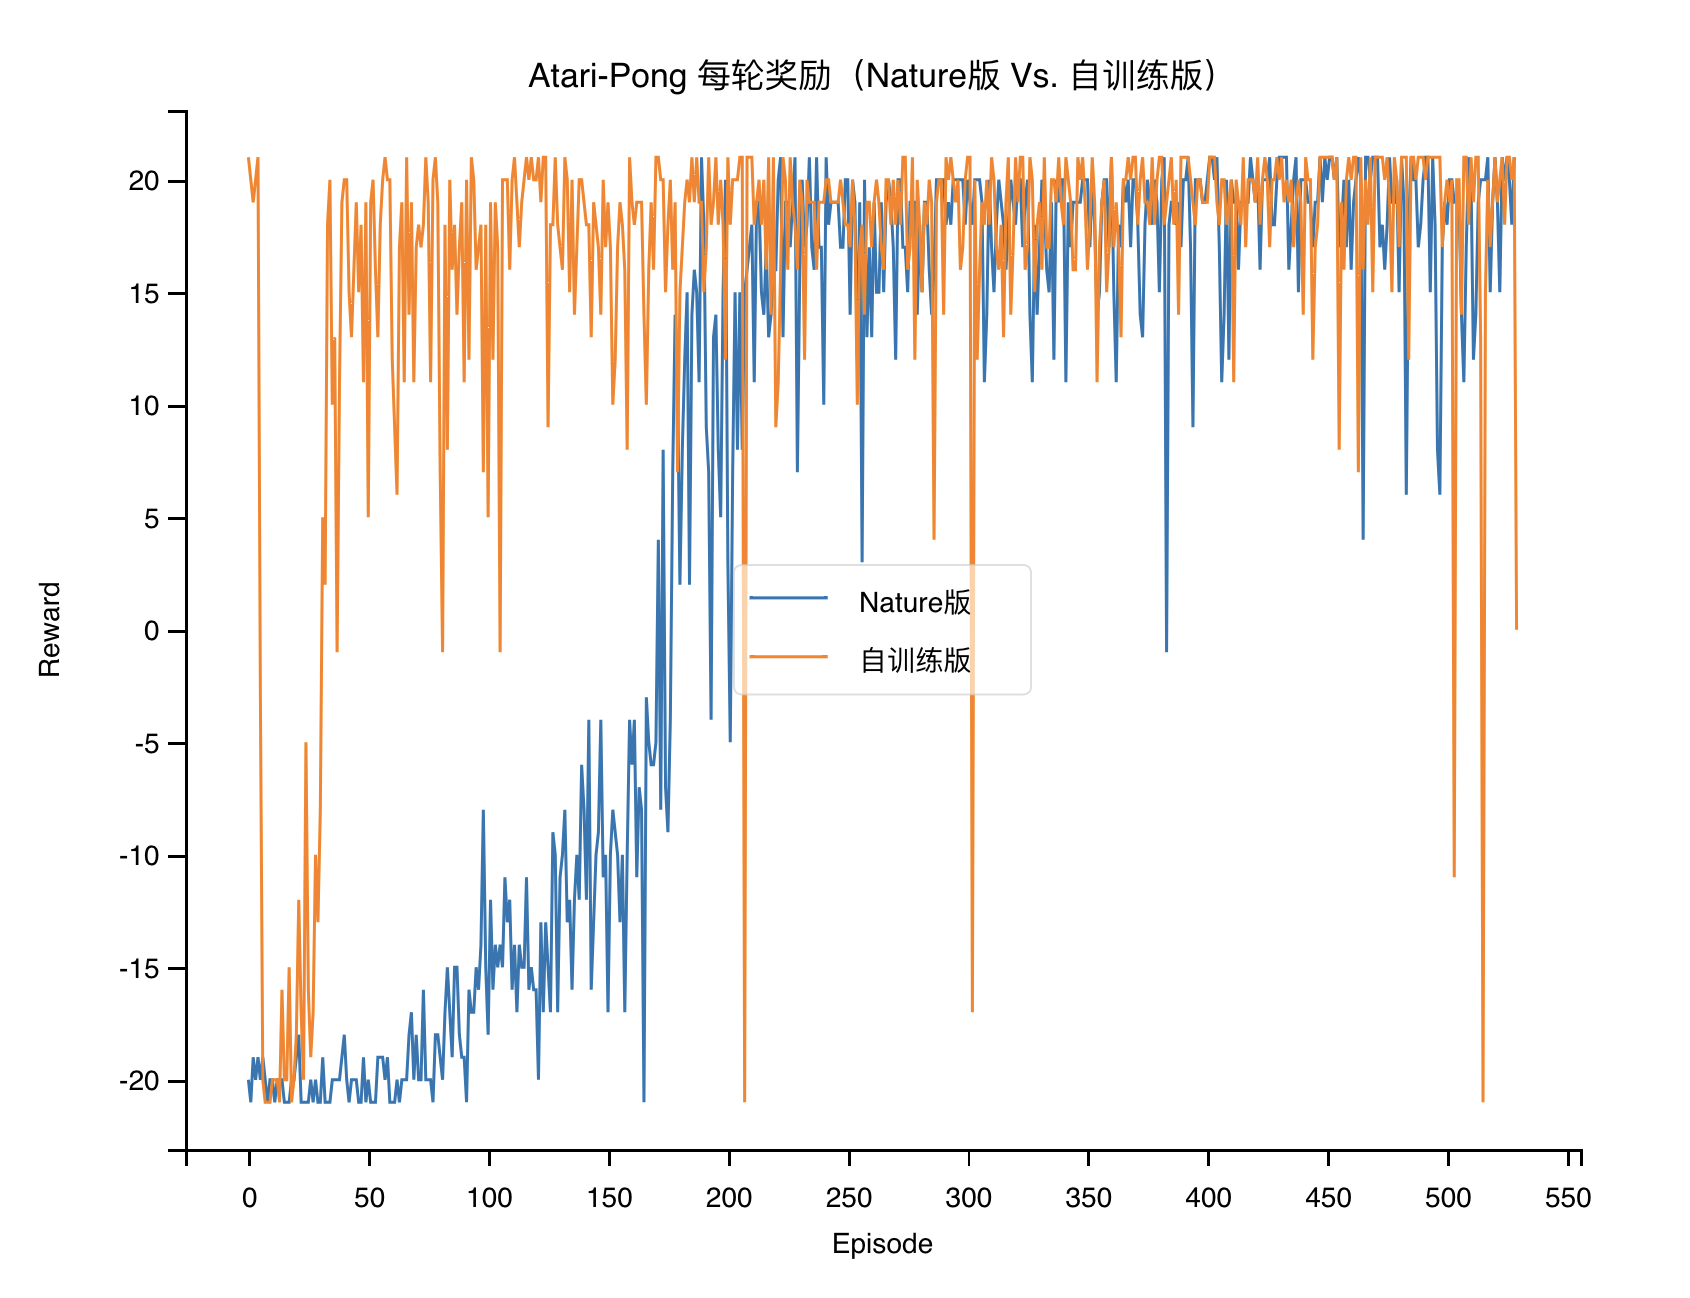
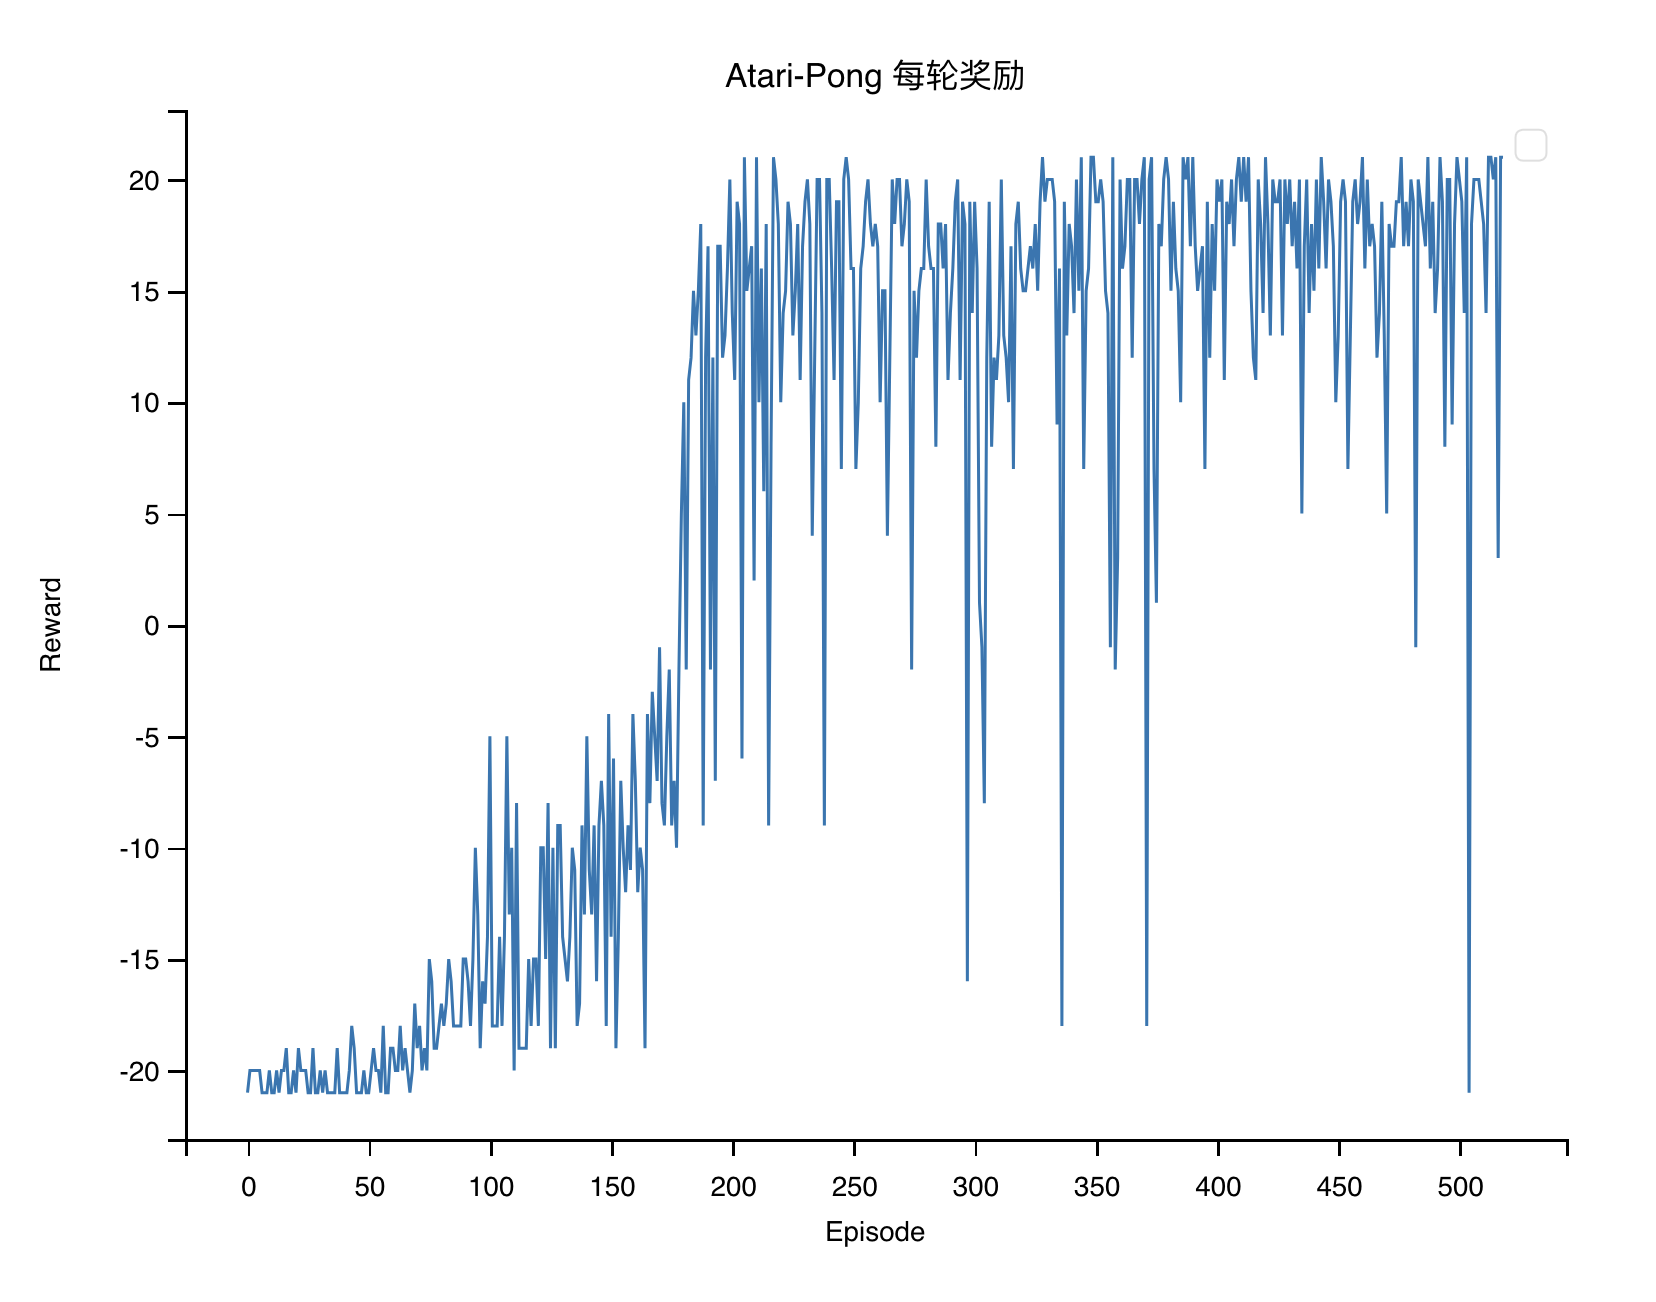
truly the last modify(

diff --git a/results/results.py b/results/results.py
@@ -4,13 +4,13 @@ import numpy as np
 def main():
     plt.rc("font", family='Microsoft YaHei')
     rewards_dqn_nature = np.loadtxt('rewards_per_episode_dqn_nature.csv', delimiter=',')
-    rewards_dqn_lonely = np.loadtxt('rewards_per_episode.csv', delimiter=',')
-    plt.plot(rewards_dqn_nature,label='Nature版')
-    plt.plot(rewards_dqn_lonely,label='自训练版')
+    rewards_dqn_neurips = np.loadtxt('rewards_per_episode_dqn_neurips.csv', delimiter=',')
+    #plt.plot(rewards_dqn_nature,label='Nature版')
+    plt.plot(rewards_dqn_neurips)
 
     plt.xlabel('Episode')
     plt.ylabel('Reward')
-    plt.title('Atari-Pong 每轮奖励（Nature版 Vs. 自训练版）')
+    plt.title('Atari-Pong 每轮奖励')
     plt.legend()
     plt.savefig('results_per_episode.png')
     plt.show()
